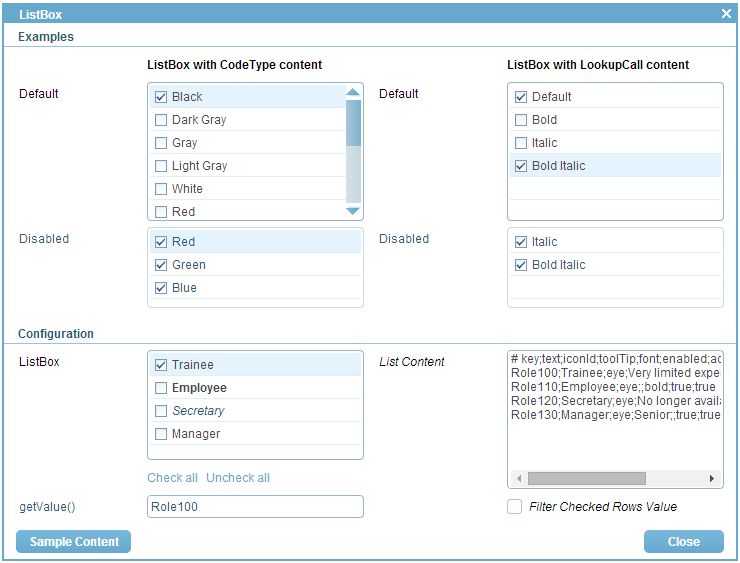
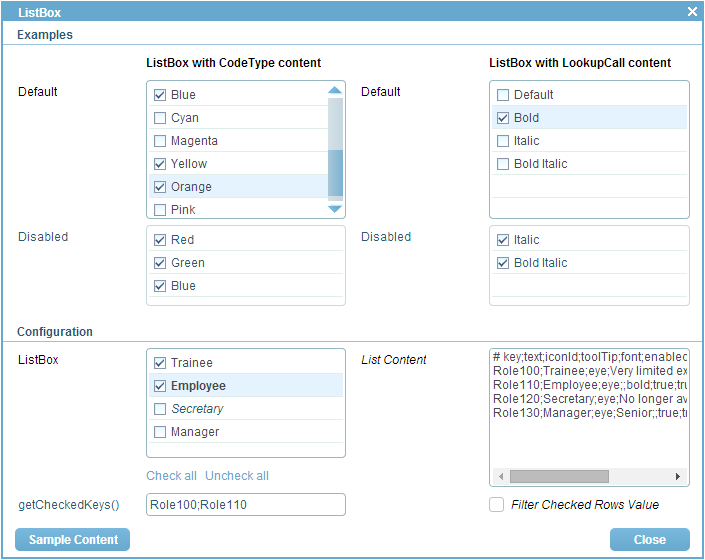
list box form text

diff --git a/code/widgets/org.eclipse.scout.widget.client/src/org/eclipse/scout/widget/client/ui/forms/ListBoxForm.java b/code/widgets/org.eclipse.scout.widget.client/src/org/eclipse/scout/widget/client/ui/forms/ListBoxForm.java
@@ -354,7 +354,7 @@ public class ListBoxForm extends AbstractForm implements IPageForm {
       }
 
       @Order(30.0)
-      public class GetValueField extends AbstractStringField {
+      public class GetCheckedKeysField extends AbstractStringField {
 
         @Override
         protected boolean getConfiguredEnabled() {
@@ -363,7 +363,7 @@ public class ListBoxForm extends AbstractForm implements IPageForm {
 
         @Override
         protected String getConfiguredLabel() {
-          return TEXTS.get("GetValue");
+          return TEXTS.get("getCheckedKeys");
         }
 
         @Override
@@ -373,9 +373,8 @@ public class ListBoxForm extends AbstractForm implements IPageForm {
 
         @Override
         protected void execChangedMasterValue(Object newMasterValue) throws ProcessingException {
-          if (newMasterValue instanceof Set<?>) {
-            setValue(StringUtility.join(";", ((Set<?>) newMasterValue).toArray(new String[0])));
-          }
+          Set<String> keys = getListBoxField().getCheckedKeys();
+          setValue(StringUtility.join(";", keys.toArray(new String[0])));
         }
       }
 

diff --git a/code/widgets/org.eclipse.scout.widget.client/src/org/eclipse/scout/widget/client/ui/forms/RadioButtonGroupFieldForm.java b/code/widgets/org.eclipse.scout.widget.client/src/org/eclipse/scout/widget/client/ui/forms/RadioButtonGroupFieldForm.java
@@ -132,7 +132,7 @@ public class RadioButtonGroupFieldForm extends AbstractForm implements IPageForm
   }
 
   /**
-   * @return the GetValueField
+   * @return the GetCheckedKeysField
    */
   public GetValueField getGetValueField() {
     return getFieldByClass(GetValueField.class);

diff --git a/code/widgets/org.eclipse.scout.widget.client/src/org/eclipse/scout/widget/client/ui/forms/DateTimeFieldsForm.java b/code/widgets/org.eclipse.scout.widget.client/src/org/eclipse/scout/widget/client/ui/forms/DateTimeFieldsForm.java
@@ -136,7 +136,7 @@ public class DateTimeFieldsForm extends AbstractForm implements IPageForm {
   }
 
   /**
-   * @return the GetValueField
+   * @return the GetCheckedKeysField
    */
   public GetValueField getGetValueField() {
     return getFieldByClass(GetValueField.class);

diff --git a/code/widgets/org.eclipse.scout.widget.client/src/org/eclipse/scout/widget/client/ui/forms/SmartFieldForm.java b/code/widgets/org.eclipse.scout.widget.client/src/org/eclipse/scout/widget/client/ui/forms/SmartFieldForm.java
@@ -157,7 +157,7 @@ public class SmartFieldForm extends AbstractForm implements IPageForm {
   }
 
   /**
-   * @return the GetValueField
+   * @return the GetCheckedKeysField
    */
   public GetValueField getGetValueField() {
     return getFieldByClass(GetValueField.class);
